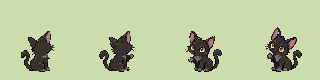
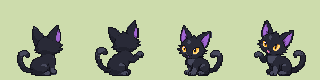
Add files via upload

diff --git a/pokemon.js b/pokemon.js
@@ -8,7 +8,7 @@ window.POKEMON = [
     ],
     "family": "Andi",
     "entry": "It watches its Trainer from shadowy corners, rarely making a sound. A lingering stare somehow earns it extra snacks, even moments after it has been fed.",
-    "sheet": "assets/andi.png",
+    "sheet": "assets/andi.png?v=20261004-1506",
     "category": "",
     "typeNote": ""
   },
@@ -21,7 +21,7 @@ window.POKEMON = [
     ],
     "family": "Andi",
     "entry": "Its eyes gleam whenever it senses food being prepared. Trainers often forget why they banned it from the kitchen bench after meeting its mysterious gaze.",
-    "sheet": "assets/andusk.png",
+    "sheet": "assets/andusk.png?v=20261004-1506",
     "category": "",
     "typeNote": ""
   },
@@ -35,13 +35,93 @@ window.POKEMON = [
     ],
     "family": "Andi",
     "entry": "It subtly controls its Trainer’s thoughts to secure snacks and food straight from their plate. Those under its influence insist they gave it permission all along.",
-    "sheet": "assets/andistral.png",
+    "sheet": "assets/andistral.png?v=20261004-1506",
+    "category": "",
+    "typeNote": ""
+  },
+  {
+    "id": "rory",
+    "number": 4,
+    "name": "Rory",
+    "types": [
+      "Fire"
+    ],
+    "family": "Rory",
+    "entry": "It seeks out the warmest spot in every room. Trainers often return to find it sleeping on the seat they have just left.",
+    "sheet": "assets/rory.png?v=20261004-1506",
+    "category": "",
+    "typeNote": ""
+  },
+  {
+    "id": "roaryre",
+    "number": 5,
+    "name": "Roaryre",
+    "types": [
+      "Fire"
+    ],
+    "family": "Rory",
+    "entry": "It loves batting at dripping taps and splashing through shallow puddles. Steam rises from its warm paws as it plays, but it hardly seems to notice.",
+    "sheet": "assets/roaryre.png?v=20261004-1506",
+    "category": "",
+    "typeNote": ""
+  },
+  {
+    "id": "roariptide",
+    "number": 6,
+    "name": "Roariptide",
+    "types": [
+      "Fire",
+      "Water"
+    ],
+    "family": "Rory",
+    "entry": "Despite its commanding appearance, it still enjoys warm beds and stolen snacks. Water from its tail betrays it whenever it sneaks onto the kitchen bench.",
+    "sheet": "assets/roariptide.png?v=20261004-1506",
+    "category": "",
+    "typeNote": ""
+  },
+  {
+    "id": "percy",
+    "number": 7,
+    "name": "Percy",
+    "types": [
+      "Fighting"
+    ],
+    "family": "Percy",
+    "entry": "It practises its fighting stance by pouncing on fallen leaves. After a successful strike, it looks around to make sure its Trainer was watching.",
+    "sheet": "assets/percy.png?v=20261004-1506",
+    "category": "",
+    "typeNote": ""
+  },
+  {
+    "id": "purrspar",
+    "number": 8,
+    "name": "Purrspar",
+    "types": [
+      "Fighting"
+    ],
+    "family": "Percy",
+    "entry": "It appears calm even during fierce battles, though its twitching tail reveals its excitement. A faint electrical charge builds in its white paws as it fights.",
+    "sheet": "assets/purrspar.png?v=20261004-1506",
+    "category": "",
+    "typeNote": ""
+  },
+  {
+    "id": "purrvolt",
+    "number": 9,
+    "name": "Purrvolt",
+    "types": [
+      "Fighting",
+      "Electric"
+    ],
+    "family": "Percy",
+    "entry": "It channels electricity through its claws, releasing thunderous strikes with precise movements. Despite its imposing appearance, it still gently kneads its Trainer’s lap before settling down.",
+    "sheet": "assets/purrvolt.png?v=20261004-1506",
     "category": "",
     "typeNote": ""
   },
   {
     "id": "cinnacub",
-    "number": 4,
+    "number": 10,
     "name": "Cinnecub",
     "types": [
       "Normal"
@@ -54,7 +134,7 @@ window.POKEMON = [
   },
   {
     "id": "urswirl",
-    "number": 5,
+    "number": 11,
     "name": "Urswirl",
     "types": [
       "Normal",
@@ -68,7 +148,7 @@ window.POKEMON = [
   },
   {
     "id": "cocobean",
-    "number": 6,
+    "number": 12,
     "name": "Cocobean",
     "types": [
       "Ground"
@@ -81,7 +161,7 @@ window.POKEMON = [
   },
   {
     "id": "mochurl",
-    "number": 7,
+    "number": 13,
     "name": "Mochurl",
     "types": [
       "Ground",
@@ -95,7 +175,7 @@ window.POKEMON = [
   },
   {
     "id": "chocobrew",
-    "number": 8,
+    "number": 14,
     "name": "Chocobrew",
     "types": [
       "Steel",
@@ -109,7 +189,7 @@ window.POKEMON = [
   },
   {
     "id": "crowblaze",
-    "number": 9,
+    "number": 15,
     "name": "Crowblaze",
     "types": [
       "Flying",
@@ -123,7 +203,7 @@ window.POKEMON = [
   },
   {
     "id": "portvolt",
-    "number": 10,
+    "number": 16,
     "name": "Portvolt",
     "types": [
       "Electric",
@@ -137,7 +217,7 @@ window.POKEMON = [
   },
   {
     "id": "shriekling",
-    "number": 11,
+    "number": 17,
     "name": "Shriekling",
     "types": [
       "Grass"
@@ -150,7 +230,7 @@ window.POKEMON = [
   },
   {
     "id": "stranglevine",
-    "number": 12,
+    "number": 18,
     "name": "Stranglevine",
     "types": [
       "Grass",
@@ -164,7 +244,7 @@ window.POKEMON = [
   },
   {
     "id": "willowrath",
-    "number": 13,
+    "number": 19,
     "name": "Willowrath",
     "types": [
       "Grass",
@@ -178,7 +258,7 @@ window.POKEMON = [
   },
   {
     "id": "galindlet",
-    "number": 14,
+    "number": 20,
     "name": "Galindlet",
     "types": [
       "Psychic"
@@ -191,7 +271,7 @@ window.POKEMON = [
   },
   {
     "id": "glindora",
-    "number": 15,
+    "number": 21,
     "name": "Glindora",
     "types": [
       "Psychic",
@@ -205,7 +285,7 @@ window.POKEMON = [
   },
   {
     "id": "elphlet",
-    "number": 16,
+    "number": 22,
     "name": "Elphlet",
     "types": [
       "Psychic"
@@ -218,7 +298,7 @@ window.POKEMON = [
   },
   {
     "id": "dephyba",
-    "number": 17,
+    "number": 23,
     "name": "Dephyba",
     "types": [
       "Psychic",
@@ -232,7 +312,7 @@ window.POKEMON = [
   },
   {
     "id": "basilurk",
-    "number": 18,
+    "number": 24,
     "name": "Basilurk",
     "types": [
       "Poison",
@@ -246,7 +326,7 @@ window.POKEMON = [
   },
   {
     "id": "lemomo",
-    "number": 19,
+    "number": 25,
     "name": "Lemomo",
     "types": [
       "Normal",
@@ -260,7 +340,7 @@ window.POKEMON = [
   },
   {
     "id": "appaloft",
-    "number": 20,
+    "number": 26,
     "name": "Apalof",
     "types": [
       "Normal",
@@ -274,7 +354,7 @@ window.POKEMON = [
   },
   {
     "id": "smiskit",
-    "number": 21,
+    "number": 27,
     "name": "Smiskit",
     "types": [
       "Normal",
@@ -288,7 +368,7 @@ window.POKEMON = [
   },
   {
     "id": "smistrio",
-    "number": 22,
+    "number": 28,
     "name": "Smistrio",
     "types": [
       "Normal",
@@ -302,7 +382,7 @@ window.POKEMON = [
   },
   {
     "id": "smisquin",
-    "number": 23,
+    "number": 29,
     "name": "Smisquin",
     "types": [
       "Normal",
@@ -316,7 +396,7 @@ window.POKEMON = [
   },
   {
     "id": "plumbgeist",
-    "number": 24,
+    "number": 30,
     "name": "Plumbgeist",
     "types": [
       "Ghost",

diff --git a/index.html b/index.html
@@ -3,8 +3,8 @@
 <head>
 <meta charset="utf-8"><meta name="viewport" content="width=device-width, initial-scale=1">
 <meta name="theme-color" content="#be253a"><meta name="description" content="Meet the custom Pokémon of Luce: an animated Pokédex of original creatures, stories and evolution families.">
-<title>Luce Pokédex</title><link rel="icon" href="favicon.svg" type="image/svg+xml"><link rel="stylesheet" href="style.css">
-<script src="pokemon.js" defer></script><script src="app.js" defer></script>
+<title>Luce Pokédex</title><link rel="icon" href="favicon.svg" type="image/svg+xml"><link rel="stylesheet" href="style.css?v=20261004-1506">
+<script src="pokemon.js?v=20261004-1506" defer></script><script src="app.js?v=20261004-1506" defer></script>
 </head>
 <body>
 
@@ -13,21 +13,21 @@
 <section class="left-shell" aria-label="Selected Pokémon">
 <div class="hardware"><div class="lens" aria-hidden="true"></div><div class="indicator red" aria-hidden="true"></div><div class="indicator gold" aria-hidden="true"></div><div class="indicator green" aria-hidden="true"></div><span class="hardware-label">POKÉDEX / LUCE</span></div>
 <div class="screen-frame"><div class="screen">
-<div class="screen-top"><span id="selected-number">NO. 004</span><span id="view-label">FRONT VIEW</span></div>
-<div class="sprite-stage"><div class="stage-grid" aria-hidden="true"></div><div class="stage-ring" aria-hidden="true"></div><canvas id="main-sprite" width="80" height="80" role="img" aria-label="Cinnacub front sprite"></canvas><p id="image-error" hidden>Sprite unavailable</p></div>
+<div class="screen-top"><span id="selected-number">NO. 010</span><span id="view-label">FRONT VIEW</span></div>
+<div class="sprite-stage"><div class="stage-grid" aria-hidden="true"></div><div class="stage-ring" aria-hidden="true"></div><canvas id="main-sprite" width="80" height="80" role="img" aria-label="Cinnecub front sprite"></canvas><p id="image-error" hidden>Sprite unavailable</p></div>
 <div class="screen-bottom"><span>SPECIES RECORD</span><span id="frame-status">01 / 02</span></div>
 </div><div class="frame-bottom"><span class="red-dot" aria-hidden="true"></span><div class="speaker" aria-hidden="true"></div></div></div>
 <div class="sprite-controls"><div class="segmented" aria-label="Sprite view"><button id="front" class="active" aria-pressed="true">Front</button><button id="back" aria-pressed="false">Back</button></div><button class="small-button" id="replay" aria-label="Replay sprite animation">↻ Replay</button><button class="small-button" id="animate" aria-pressed="true">Animation on</button></div>
-<div class="entry-panel"><div class="entry-heading"><div><p class="eyebrow" id="category">POKÉMON</p><h1 id="name">Cinnacub</h1></div><div id="types" class="types"></div></div><p class="type-note" id="type-note" hidden></p><p id="entry" class="dex-entry"></p><div class="evolution-head"><h2>Evolution family</h2><span id="family-count"></span></div><div id="evolution" class="evolution"></div></div>
+<div class="entry-panel"><div class="entry-heading"><div><p class="eyebrow" id="category">POKÉMON</p><h1 id="name">Cinnecub</h1></div><div id="types" class="types"></div></div><p class="type-note" id="type-note" hidden></p><p id="entry" class="dex-entry"></p><div class="evolution-head"><h2>Evolution family</h2><span id="family-count"></span></div><div id="evolution" class="evolution"></div></div>
 <div class="navigation"><button id="previous" aria-label="Previous Pokémon">‹</button><span id="position"></span><button id="next" aria-label="Next Pokémon">›</button></div>
 </section>
 <div class="hinge" aria-hidden="true"><i></i><i></i><i></i></div>
 <section class="right-shell" aria-label="Pokémon collection">
-<div class="collection-heading"><div><p class="eyebrow">YOUR DISCOVERIES</p><h2>Pokémon index</h2></div><span class="collection-count"><b id="total">24</b> Pokémon</span></div>
+<div class="collection-heading"><div><p class="eyebrow">YOUR DISCOVERIES</p><h2>Pokémon index</h2></div><span class="collection-count"><b id="total">30</b> Pokémon</span></div>
 <div class="catalogue"><div class="filters"><label class="search"><span aria-hidden="true">⌕</span><input id="search" type="search" placeholder="Search Pokémon…" aria-label="Search Pokémon" autocomplete="off"></label><label class="type-filter"><span class="sr-only">Filter by type</span><select id="type-filter"><option value="">All types</option></select></label></div><div class="catalogue-meta"><span id="result-count" role="status" aria-live="polite"></span><button id="clear" hidden>Clear filters</button><span id="catalogue-hint">SELECT TO EXPLORE</span></div><div id="grid" class="pokemon-grid"></div><div id="empty" class="empty" hidden><h3>No Pokémon found</h3><p>Try another name or type.</p><button id="reset">Reset filters</button></div></div>
 <div class="bottom-hardware"><div class="blue-keys" aria-hidden="true"><i></i><i></i><i></i><i></i><i></i></div></div>
 </section>
 </main>
-<footer><span id="footer-count">24 Pokémon · 10 evolution families</span></footer>
+<footer><span id="footer-count">30 Pokémon · 14 evolution families</span></footer>
 <noscript><p class="noscript">Enable JavaScript to explore the Pokédex.</p></noscript>
 </body></html>
